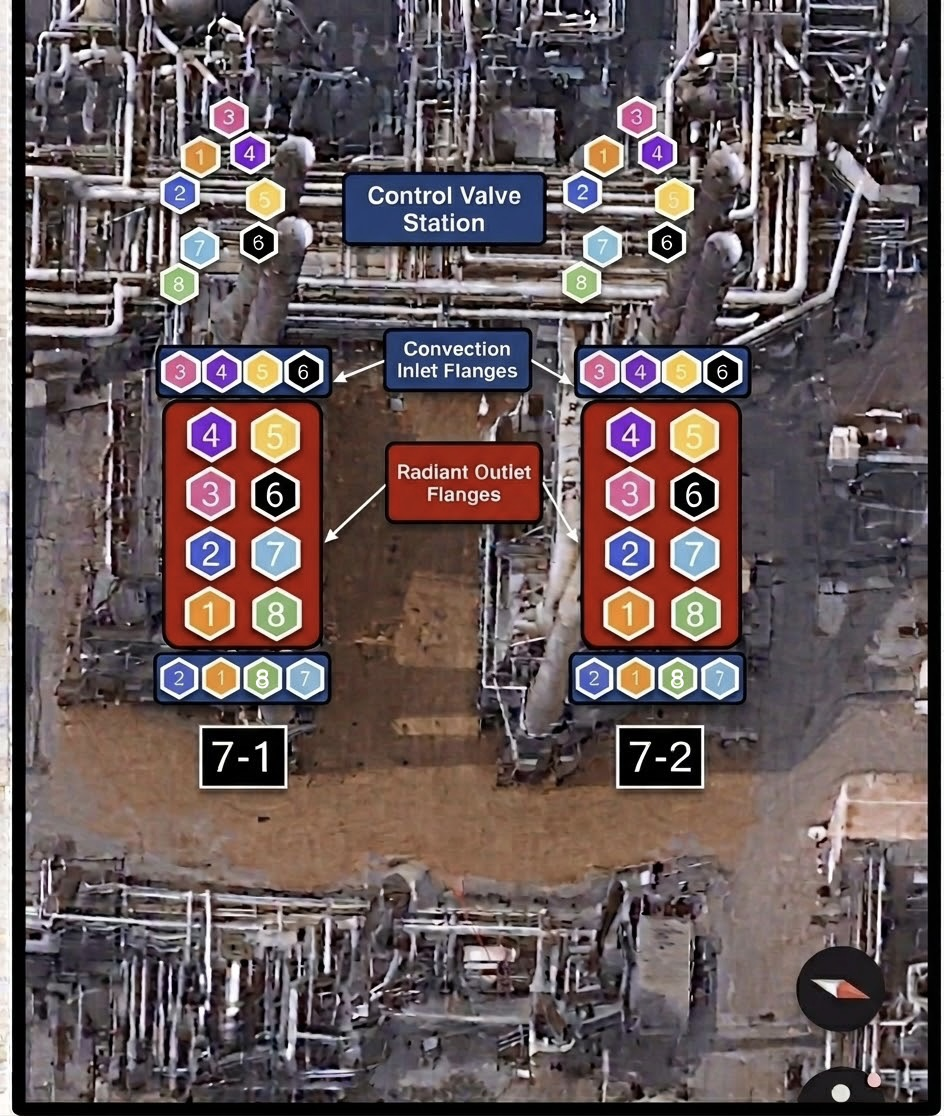
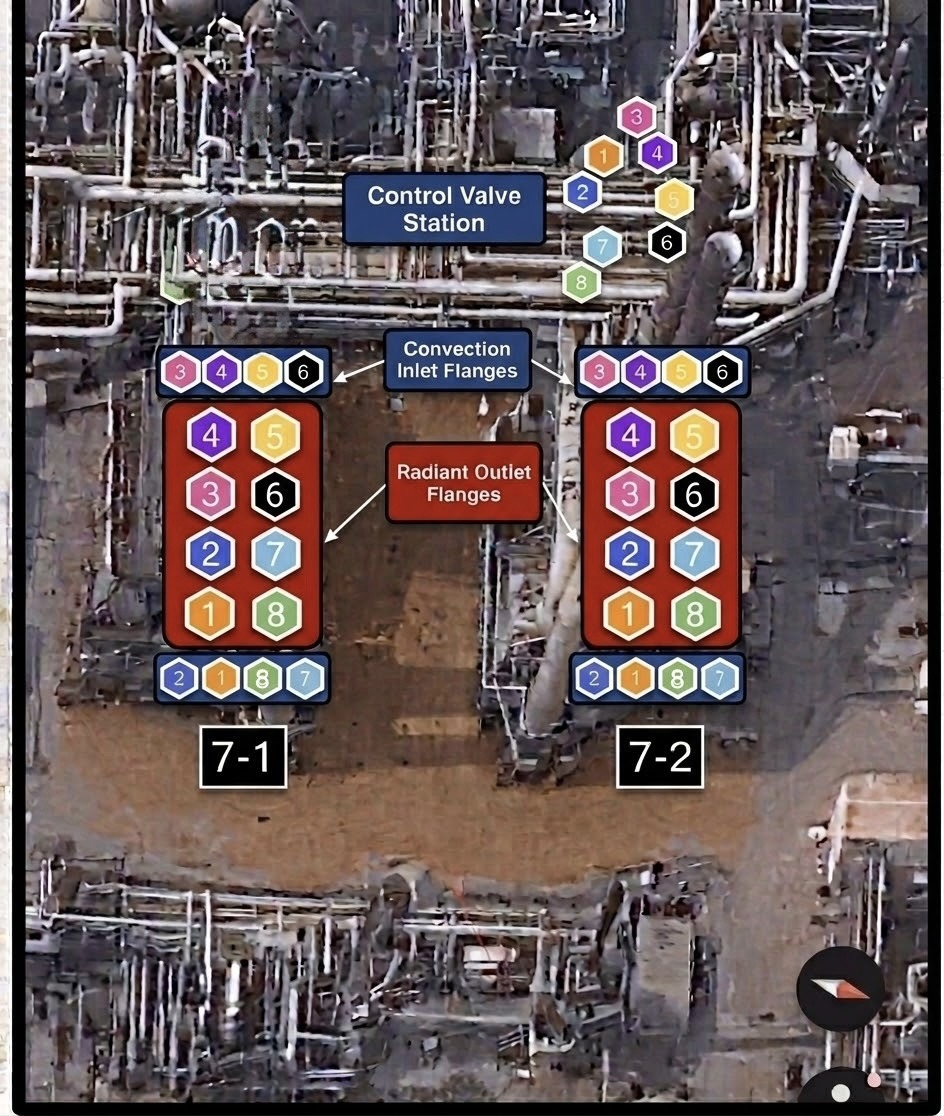
[Lane 4] CAD26001 ingest — loop location reversed, actuals landed, job report built
Loop location (Lane 4, Jesse 2026-09-02). The temporary 180s went in at the
CONVECTION INLET flanges, one per pass, not the radiant outlets — so every
launcher and receiver landed at the radiant outlets. The vault had it inverted
from 2026-08-21 in five files, all carrying Jesse's name; corrected in each,
with the stale attributions replaced rather than re-dated. This is the
arrangement the rest of the estate already uses (Baytown F-201, F-501).

Job sheet: DSP #CAN24120 located in the OneDrive job folder, so the "no work-up
exists" callout was false — it was scoped to the vault. Records the quoted plan
(96 hrs / 8 shifts, UNLOOPED, crew of 15) against a job executed looped with 10.
Its own HTML twin carried the same errors and is corrected alongside.

Heater card: CAD26001 Task Durations row as a 2-rig sum with hours-blended so
the rollup classifies it 2-rig-sum and suppresses a rate computed from summed
hours; new ## Coilset Durations section (DQ-017 Phase 2) carrying the valid
per-rig measurements — Mode 2, Circuit ft 4,474, ft/hr per pig 124 (TM5) and
144 (TM6) against CAD25004's single-circuit 124, which says running two looped
circuits per rig cost nothing. Coils column left "?": the day and night ticket
books swap which Trimax held which circuits, and Jesse ruled not to record a
contested attribution. Field Notes and Pig Specifications added.

The 114.5 here is a 2-rig SUM and must not be read against the 84-hr build-up,
[…]

Changed region(s): [[0.1536, 0.0914, 0.3686, 0.3351]]

diff --git a/02-facilities/Syncrude/Fort-McMurray-AB/CAD26001-job-sheet.html b/02-facilities/Syncrude/Fort-McMurray-AB/CAD26001-job-sheet.html
@@ -128,7 +128,7 @@
   <h2>Project Details</h2>
   <table class="kv">
     <tr><td>Scope</td><td class="b">7-1 F-1 Bitumen Column Feed Heater &mdash; w/ Smart Pigging</td><td>Job #</td><td class="b">CAD26001</td></tr>
-    <tr><td>Facility</td><td>Syncrude Mildred Lake &mdash; Fort McMurray, AB</td><td>Quote</td><td class="mut">No DSP work-up on file</td></tr>
+    <tr><td>Facility</td><td>Syncrude Mildred Lake &mdash; Fort McMurray, AB</td><td>Quote</td><td>DSP #CAN24120</td></tr>
     <tr><td>Mode</td><td>Double mode &times; 2 rigs &mdash; 4 looped circuits, all pigged simultaneously</td><td>PO #</td><td>1300060001</td></tr>
     <tr><td>Project Type</td><td>Planned outage &mdash; August 2026 (third campaign)</td><td>PM</td><td>Dacorey Slater</td></tr>
     <tr><td>Lodging</td><td>Camp</td><td>Training</td><td>CSO / Syncrude Site Specific</td></tr>
@@ -163,7 +163,7 @@
     <tr><td class="rowlabel">Night</td><td>Supervisor</td><td class="b">Sam Mixon</td></tr>
     <tr><td class="rowlabel">Night</td><td>Operator</td><td>Jesse Utsey &middot; Danilo Ramirez &middot; Rodney Lynch &middot; JC</td></tr>
   </table>
-  <div class="note">No DSP work-up is on file for this job, so <span class="b">no quoted resource plan or billing basis is carried here</span>. Roster is the mobilized crew of 10 &mdash; 5 dayshift / 5 nightshift. PM runs dayshift.</div>
+  <div class="note">DSP #CAN24120 quoted a crew of 15 (1 PM &middot; 1 day supervisor &middot; 6 day operators &middot; 1 night supervisor &middot; 6 night operators). <span class="b">Roster below is the mobilized crew of 10</span> &mdash; 5 dayshift / 5 nightshift. PM runs dayshift.</div>
 </section>
 
 <section>
@@ -208,9 +208,9 @@
       <div class="spec"><div class="sl">Launchers</div><div class="sv">8 &times; 6" &middot; at grade</div></div>
       <div class="spec"><div class="sl">Circuits</div><div class="sv hi">4 looped &middot; 4,474' ea.</div></div>
     </div>
-    <div class="cline"><span class="lb">Circuits</span><span class="vl"><span class="b">8 coils looped into 4 circuits with temporary 180s at the radiant outlet flanges &mdash; 1&amp;8 &middot; 2&amp;7 &middot; 3&amp;6 &middot; 4&amp;5.</span> Follows the physical outlet-spool pairing. Launcher and receiver both land at the control-valve-station end.</span></div>
+    <div class="cline"><span class="lb">Circuits</span><span class="vl"><span class="b">8 coils looped into 4 circuits with a temporary 180 loop connection at the convection inlet flanges of each pass &mdash; 1&amp;8 &middot; 2&amp;7 &middot; 3&amp;6 &middot; 4&amp;5.</span> Launcher and receiver both land at the radiant outlet end.</span></div>
     <div class="cline"><span class="lb">Temp 90s</span><span class="vl">Plant installs temporary 90&deg; elbows at both ends &mdash; CV station and radiant outlets. Those are what bring both connection points to grade; plant-side prerequisite.</span></div>
-    <div class="cline"><span class="lb">Location</span><span class="vl">Inlets at the control valve station. Outlets at the radiant outlet flanges. All 8 launchers and 8 receivers at grade &mdash; nothing on this heater is rigged at elevation.</span></div>
+    <div class="cline"><span class="lb">Location</span><span class="vl">Inlets at the control valve station. Outlets at the radiant outlet flanges. Under the looped election the 4 temporary 180s land at the convection inlets and all 16 pigging spools land at the radiant outlet end. All 8 launchers and 8 receivers at grade &mdash; nothing on this heater is rigged at elevation.</span></div>
     <div class="cline"><span class="lb">Water</span><span class="vl">Hydrant. Soda-ash solution mixed in tank &mdash; Syncrude site practice.</span></div>
     <div class="cline"><span class="lb">Coil</span><span class="vl">Heater total 376 tubes / 17,893 ft. Single 6.065" bore throughout &mdash; no telescoping, no size sequencing.</span></div>
   </div>
@@ -247,7 +247,7 @@
     <figure>
       <img src="CAD26001-fig1-connections.jpg" alt="Annotated aerial showing connection points on 7-1 and 7-2">
       <figcaption><span class="fl">Fig 1 &mdash; Connection Points</span>
-        Both the launcher and the receiver of each circuit are at the control valve station convection inlet flanges; the temporary 180s are at the radiant outlet flanges. Because the coils are looped there, <span class="b">no launcher or receiver lands at the radiant outlet end at all</span> &mdash; the 180s take their place. Numbers are coils 1&ndash;8.
+        The temporary 180s are at the control valve station convection inlet flanges, one per pass; both the launcher and the receiver of each circuit are at the radiant outlet flanges. Because the coils are looped at the inlets, <span class="b">no launcher or receiver lands at the convection inlet end at all</span> &mdash; the 180s take their place. Numbers are coils 1&ndash;8.
         <span class="b">7-2 F-1 is a mirror image</span> &mdash; plenums, floor access doors, stairways and outlet-tube movement all opposite hand. We work 7-1.
       </figcaption>
     </figure>

diff --git a/02-facilities/Syncrude/Fort-McMurray-AB/7-1-F-1.md b/02-facilities/Syncrude/Fort-McMurray-AB/7-1-F-1.md
@@ -9,10 +9,10 @@ heater-type: other
 service: Bitumen Column Feed Heater
 configuration: 8 coils / 8 passes, one coil per pass, tagged CO-1 through CO-8; outlet spools pair 1&8, 2&7, 3&6, 4&5; passes distributed across radiant Cells A-E
 status: reviewed
-last-updated: 2026-08-20
+last-updated: 2026-09-02
 tags: [heater-card, Syncrude]
 source: OEM/vendor drawings (Quest isometric 7-1F-1; Foster Wheeler GA plan + longitudinal sections; Syncrude/CoSyn coil revamp BOM 7 1 D-F-015 Rev 1) + CAD25004 ticket breakdown + CAD24002 (April 2024) job report
-verified: 2026-08-20
+verified: 2026-09-02
 ---
 
 # 7-1 F-1 Column Feed Heater — Syncrude Fort McMurray, AB
@@ -123,7 +123,7 @@ not be read as coil length.
 | Launcher flange | 6" 300# — **8 launchers**, installed on **temporary 90s at the control valve station**. Connects to 6" 300# convection inlet piping. (Launcher flange size is always constant.) |
 | Receiver flange | 6" 300# — **8 receivers**, installed on **temporary 90s at the radiant outlet flanges**. |
 | Temporary 90s | The plant installs temp 90° elbows at both ends — CV station and radiant outlets — and we land on those. They are what brings both connection points to grade. Their installation is a plant-side prerequisite and has been a standing source of standby on this heater (see Field Notes: CAD25004 lost ~192 hrs waiting on blinds, spools and launchers). |
-| Count | **16 total, 8 per end — for the UNLOOPED arrangement.** Corrected 2026-08-20 — the card previously read "16 launchers at the control-valve-station convection inlets," which put all 16 on one end. The CAD24002 report's "16 launchers" is the both-ends total. **Looping changes where they land, not how many there are** (added 2026-09-02): on CAD26001's 8→4 election the loop 180s occupy the radiant outlet flanges, so all 16 spools land at the CV station end and nothing but a 180 sits at the outlets. The rows above describe the unlooped case; read them against the job's own looping election. |
+| Count | **16 total, 8 per end — for the UNLOOPED arrangement.** Corrected 2026-08-20 — the card previously read "16 launchers at the control-valve-station convection inlets," which put all 16 on one end. The CAD24002 report's "16 launchers" is the both-ends total. **Looping changes where they land, not how many there are** (added 2026-09-02): on CAD26001's 8→4 election the loop 180s occupy the convection inlet flanges, one per pass, so all 16 spools land at the radiant outlet end and nothing but a 180 sits at the inlets. The rows above describe the unlooped case; read them against the job's own looping election. **Corrected 2026-09-02** — this row and the Job Options row below both read the arrangement inverted from 2026-08-21 until Jesse corrected it against what was actually built. |
 | Water supply source | Hydrant. Soda-ash solution mixed in tank to combat resid — Syncrude site/customer practice, NOT USADebusk stainless passivation (metallurgy is A335 P5, low-alloy not stainless; per usadebusk-core customer-instruction-governed rule, 2026-07-23). |
 | Max pig OD (in) | Governing ID 6.065" → rule cap 6.315" (6.065 + 0.250). Largest actually run: 6.5" TC (oversized final) plus 8.5" (CAD24002) / 10.5" (CAD25004) dewater swabs. |
 
@@ -136,7 +136,7 @@ not be read as coil length.
 | Option | Status (Optional / Elected / Declined / TBD) | Vendor / Notes |
 |---|---|---|
 | Filtration | **Not used — settled** | **USADebusk does not use filtration on this heater or on its sister `7-2 F-1`** (Jesse, 2026-08-21). This is a recurring job and the question is closed — not a per-job election, not an open item, and not something to raise with Syncrude. CAD24002 records the how: no filtration, drained to the oily-water sewer 5' from the rig (see Field Notes). CAD25004 was never clearly recorded and does not need to be. |
-| **Pass looping** | Experimental (CAD25004) · **ELECTED (CAD26001)** | **Looping is a per-job election on this heater, not a design feature** (Jesse, 2026-08-20). **CAD25004 looped passes 1 & 8 and only those two, as a deliberate test** — whether a looped pair is too much footage for one circuit and whether it could still be done in a similar time. It could: 36 hrs for the looped 4,474 ft circuit against 35 hrs for the unlooped triple set (Jesse, 2026-08-21). **That test result is why CAD26001 loops all 8 coils into 4 circuits, at the RADIANT OUTLET FLANGES** (Jesse, 2026-08-21). **Which coils pair with which is not yet decided** — and it does not change the duration: all 8 coils are uniform at 2,237 ft / 47 tubes / single 6.065" bore, so any pairing yields the same ~4,474 ft circuit. Pairing affects loop-spool routing and hose layout at the outlet end, not hours. This corrects the card's original "passes 1 & 8 looped together," which was recorded as if it were heater configuration; it was a job-time choice. **Rig consequence:** looping at the radiant outlets puts both the launcher and the receiver of each circuit at the CV-station convection-inlet end, with loop spools replacing receivers at the radiant outlets — so pumper circuit lines run to one location instead of two. **CAD26001 mode (Jesse, 2026-08-21):** both Trimax run **double mode**, and **all 4 looped circuits are pigged simultaneously** — one pass set, `ceil(4 ÷ 4) − 1 = 0` rig-overs. |
+| **Pass looping** | Experimental (CAD25004) · **ELECTED (CAD26001)** | **Looping is a per-job election on this heater, not a design feature** (Jesse, 2026-08-20). **CAD25004 looped passes 1 & 8 and only those two, as a deliberate test** — whether a looped pair is too much footage for one circuit and whether it could still be done in a similar time. It could: 36 hrs for the looped 4,474 ft circuit against 35 hrs for the unlooped triple set (Jesse, 2026-08-21). **That test result is why CAD26001 loops all 8 coils into 4 circuits, at the CONVECTION INLET FLANGES** (Jesse, 2026-08-21 for the election; **location corrected 2026-09-02** — recorded as the radiant outlet flanges from 2026-08-21 until Jesse corrected it against the as-built. The 180s went in at the convection inlets, one per pass, putting every launcher and receiver at the radiant outlets). **Pairing as built was 1&8 · 2&7 · 3&6 · 4&5** — and it does not change the duration: all 8 coils are uniform at 2,237 ft / 47 tubes / single 6.065" bore, so any pairing yields the same ~4,474 ft circuit. Pairing affects loop-spool routing and hose layout at the inlet end, not hours. This corrects the card's original "passes 1 & 8 looped together," which was recorded as if it were heater configuration; it was a job-time choice. **Rig consequence:** looping at the convection inlets puts both the launcher and the receiver of each circuit at the radiant outlet end, with loop spools replacing launchers at the CV station — so pumper circuit lines run to one location instead of two. **CAD26001 mode (Jesse, 2026-08-21):** both Trimax run **double mode**, and **all 4 looped circuits are pigged simultaneously** — one pass set, `ceil(4 ÷ 4) − 1 = 0` rig-overs. |
 | Smart pigging / inspection | Elected (both jobs) | Quest — Smart Pig all 8 coils on CAD24002 and CAD25004. Job-specific election, not a heater fact. |
 
 ---
@@ -153,8 +153,25 @@ not be read as coil length.
 | 6.25 in | TC | 21 | (not recorded) | (not recorded) | CAD25004 pigs-utilized table |
 | 6.5 in | TC | 12 | (not recorded) | (not recorded) | CAD25004 pigs-utilized table |
 | 10.5 in | Swab | 3 | (not recorded) | (not recorded) | CAD25004 — dewater swabs |
+| 6 in | Gauge Foam | 8 | (not recorded) | (not recorded) | CAD26001 ticket breakdown |
+| 6 in | Pin | 5 | (not recorded) | (not recorded) | CAD26001 ticket breakdown |
+| 6.125 in | HR | 9 | (not recorded) | (not recorded) | CAD26001 ticket breakdown — written `6-1/8" HR` |
+| 6.25 in | Pin | 30 | (not recorded) | (not recorded) | CAD26001 ticket breakdown — see correction note |
+| 8.25 in | Swab | 4 | (not recorded) | (not recorded) | CAD26001 — dewater swabs |
+| 8.5 in | Swab | 8 | (not recorded) | (not recorded) | CAD26001 — dewater swabs |
 
 Source table carried both a "6.0 in" and a "6 in" row; preserved as listed rather than merged.
+
+**CAD26001 (64 pigs total), with one correction applied.** The ticket breakdown books **nine of the
+6.25" pigs as 6.5"**; Jesse corrected this 2026-09-02 — they were 6.25", and **6.25" was the final size
+on this job.** The rows above carry the corrected reading (6.25" ×30, no 6.5" row); the total is 64
+either way. **The card and Kelly's workbook are knowingly out of step until she amends it** — the
+workbook is hers and is not edited from here.
+
+Two firsts for this heater: **Hell Razors were run for the first time** (CAD24002 and CAD25004 were
+TC / foam / swab only), and **dewatering used 8.25" and 8.5" swabs rather than the 10.5"** that CAD25004
+established and the job sheet carried forward, reverting to CAD24002's 8.5" method. See Field Notes for
+why — the available air volume, not a change of preference.
 
 ---
 
@@ -164,6 +181,7 @@ Source table carried both a "6.0 in" and a "6 in" row; preserved as listed rathe
 |---|---|---|---|
 | CAD24002 | (not recorded) | 2024-04-05 (April TA) | Full field data ingested (job report, 2026-07-23). 2 Trimax (3 & 6), contact Sean Joyce. 8 coils, no filtration (drained to oily-water sewer), Quest smart pig all 8. See Task Durations + Field Notes. |
 | CAD25004 | (not recorded) | 2025-09-07 → 09-13 | Full field data ingested (ticket breakdown, 2026-07-23). 2 Trimax (5 & 6), mob 9/7, plant-delay standby 9/7–9/10, pigged 9/11–9/13. See Task Durations + Field Notes below. |
+| CAD26001 | DSP #CAN24120 | 2026-08-25 → 08-30 | Full field data ingested (ticket breakdown + service tickets, 2026-09-02). 2 Trimax (5 & 6), PO 1300060001. First job on this heater run fully looped — 8 coils into 4 circuits, both rigs double mode, 0 rig-overs. See Task Durations, Coilset Durations + Field Notes. |
 
 ---
 
@@ -172,6 +190,7 @@ Source table carried both a "6.0 in" and a "6 in" row; preserved as listed rathe
 |---|---|---|---|---|---|---|---|---|---|---|---|
 | 2024-04-05 | CAD24002 | 2 | 9.5 | 68.5 | 9 | 1.5 | 7.5 | 36 | 96 | routine, hours-blended | |
 | 2025-09-07 | CAD25004 | 2 | 14 | 119 | 18 | – | 13 | 192 | 164 | routine, hours-blended | |
+| 2026-08-26 | CAD26001 | 2 | 18 | 67 | 7 | – | 22.5 | 61.5 | 114.5 | routine, hours-blended | |
 
 **CAD24002 row** (populated 2026-07-23 from the CAD24002 April-2024 job report PDF, Jesse-supplied): 2-Trimax
 job (Trimax 3 + Trimax 6). Per-unit split (report's TOTAL DURATION tables): Trimax 6 (passes 1/2/3/7/8) =
@@ -193,6 +212,30 @@ coils + 108 on TM6's) was almost entirely **plant-caused delay 9/7–9/10** (wai
 heater and install blinds, spools, launchers). Condition routine per Jesse (2026-07-22): planned job,
 moderate/light fouling — Kicksolve was used against pitch/resid but Jesse classifies the coil condition as
 routine.
+
+**CAD26001 row** (populated 2026-09-02 from `CAD26001 Syncrude Fort Mac 7-1F-1 Bitumen 2 TriMax Ticket
+Breakdown.xlsx` via `extract_ticket_breakdown.py`, plus the 15-page service-ticket stack): 2-Trimax job
+(Trimax 5 + Trimax 6), 8 coils looped into 4 circuits, both rigs in double mode, 0 rig-overs. Job ran
+8/26–8/30/2026; demob 8/30. Per-rig split: **TM5** rig-in 9 / pig 36 / smart 3.5 / rig-out 9.5 = 58;
+**TM6** rig-in 9 / pig 31 / smart 3.5 / rig-out 13 = 56.5. These sum exactly to the parent row, so the
+task split is a measurement rather than an allocation — `hours-blended` is carried for the *other*
+reason the token exists, that these are **2-rig sums and not elapsed**, which is what makes
+`estimating_rollup.py` classify the row `2-rig-sum` and suppress its ft/hr. The per-pig rates that
+*are* valid live in `## Coilset Durations` below.
+
+**Do not compare this row's 114.5 to the 84-hr build-up.** The 84 is project-**elapsed**; 114.5 is a
+2-rig **sum**, and the comparison is the exact category error this token exists to prevent. On matched
+elapsed terms the job came in **under** plan: rig-in 9 vs 8, pig **36.5 vs 47**, smart 7 vs 18, rig-out
+13 vs 8 — 65.5 elapsed against 81 raw. Pigging beat plan by 10.5 hrs; the only overrun is rig-out.
+*Elapsed figures are computed, not measured:* where both rigs logged hours in one shift, elapsed is
+taken as the larger, since the capture sheet's per-circuit clock table was never filled in.
+
+Stand-By 61.5, all customer-caused, in two groups: **47.5 hrs on 8/27** awaiting heater preparation
+(blinds, spools, convection jumpers, launcher hanging) and **14 hrs on 8/29–8/30** awaiting a 1600 CFM
+compressor for dewatering — Syncrude did not supply one until the end of the job, the on-site unit was
+too small for the looped circuits, and passes air-locked (Jesse, 2026-09-02). The tickets word this as
+"awaiting for compressor to be fixed or replaced", which reads like our equipment failing; it was not.
+Condition `routine` — planned outage, nominal fouling.
 
 **ft/hr note (both rows):** heater footage is **17,893 ft** as of 2026-08-20, not the 2,311 ft used before
 that date. Pig hours on both rows remain 2-rig sums across asymmetric coil-sets, so the rollup's
@@ -250,6 +293,41 @@ What went wrong on that coil set is unrecovered and may not be recoverable from 
 
 ---
 
+## Coilset Durations
+
+Added 2026-09-02 (DQ-017 Phase 2). One row per coilset as actually run. `## Task Durations` stays
+authoritative at heater level and is not changed by this section; these rows sum to the CAD26001 parent
+row exactly (58 + 56.5 = 114.5).
+
+| Job # | Coils | Rig | Mode | Circuit ft | Rig-In | Pig | Smart Pig | Rig-Over | Rig-Out | Total | Coil condition | Flag |
+|---|---|---|---|---|---|---|---|---|---|---|---|---|
+| CAD26001 | ? | TM5 | 2 | 4,474 | 9 | 36 | 3.5 | – | 9.5 | 58 | light | clean |
+| CAD26001 | ? | TM6 | 2 | 4,474 | 9 | 31 | 3.5 | – | 13 | 56.5 | light | clean |
+
+**Coils is `?` deliberately, not unrecorded-by-accident.** The day and night ticket books disagree on
+which Trimax held which circuits: day tickets put TM5 on 3/4 + 5/6 and TM6 on 1/2 + 7/8, the night books
+put pumper 5 on 7/8 + 1/2 and pumper 6 on 3/4 + 5/6 — exactly swapped. Jesse ruled 2026-09-02 not to
+attribute circuits rather than record a contested pairing. **It costs nothing here:** all 8 coils are
+uniform at 2,237 ft, so every looped circuit is 4,474 ft whatever the pairing, and the rate does not
+depend on which pair a rig held.
+
+**Mode 2** = two looped circuits pigged simultaneously per rig, each looped path counting as 1.
+**Circuit ft 4,474** = the footage one pig travels through a looped pair, not the set total.
+
+**ft/hr per pig = Circuit ft ÷ Pig — TM5 124, TM6 144.** *Computed* from workbook hours and
+drawing-derived footage; not a measured travel rate. Against **CAD25004's 124 ft/hr**, earned by Trimax 6
+on a single looped circuit with the rig's undivided attention, this is the answer to the one question the
+capture sheet existed to ask: **running two looped circuits per rig instead of one cost nothing.** That
+corroborates striking the 25–40% parallel allowance on 2026-08-23. It rests on one assumption the record
+cannot close — that both of a rig's circuits ran together for its whole pigging window — because the
+capture sheet's per-circuit clock table was never filled in.
+
+Coil condition `light` on both rows: all eight coils came out nominal, thickest deposits ~1/8" in the
+radiant (Jesse, 2026-09-02). Flag `clean` — the two rigs' pig hours agree within 5 hrs on identical
+footage, so neither is an outlier.
+
+---
+
 ## SOPs
 
 ---
@@ -290,6 +368,43 @@ launchers, crew of 13. PM Marshall Douglas.
 - **2026-07-06:** Jesse confirmed CAD24002 (2024) and CAD25004 (2025) are two separate real projects on this heater, not a mislabeling. This Field Notes section documents CAD25004 only; CAD24002 field data has not been located/ingested yet.
 - **2026-07-23 — full ticket breakdown ingested** (Jesse-supplied). Job ran 9/7–9/13/2025. Mob from Deer Park, TX (Trimax 5) and Edmonton (Trimax 6) on 9/7; staging + soda-ash mixing + rig-in 9/7–9/8. **9/8–9/10 was almost entirely standby** waiting on the plant to drain the heater and install blinds, spools, and launchers (receipts 10184–10194, ~192 hrs total). Pigging 9/11–9/13: Trimax 5 on coils 2/3/4, Trimax 6 on coils 5/6/7 then coils 1 & 8. Progression foams 5.5" → 6.0" → 6.25" → 6.5"; Kicksolve added against pitch/resid on multiple passes; Quest smart pig on all coils; dewatered with 10.5" swabs. Per-unit/per-coilset hours are in the Task Durations row note. The breakdown's summary header carried a stale sequence number, **25002**, in place of 25004 — confirmed job is **CAD25004** (consistent with the stale-number warning above).
 
+### CAD26001 — August 2026
+
+Source: `CAD26001 7-1F-Bitumen Service Tickets.pdf` (tickets 11301–11309, 10401–10406), the CAD26001
+ticket breakdown, and Jesse's field account 2026-09-02. Mob 8/25 (Houston to Edmonton, then camp),
+rig-in 8/26, pigging 8/27 night through 8/29, smart pig 8/29, demob 8/30. Crew of 10, PM Dacorey Slater,
+night supervisors Sam Mixon and Jesse Utsey. Customer contact Carlos Martinez on the tickets; Jeremy
+McWhirter signed as customer representative.
+
+- **Config:** 8 coils looped into 4 circuits, temporary 180s at the **convection inlet flanges**, one per
+  pass, pairing 1&8 · 2&7 · 3&6 · 4&5. Both Trimax in double mode, all 4 circuits at once, **0
+  rig-overs** — the first time this heater has been cleaned in a single set. No filtration. Water from
+  hydrant, soda-ash solution mixed in tank.
+- **Coke analysis:** all 8 coils **nominal, consistent with historical run times.** Thickest deposits
+  ~**1/8"** in the **radiant tubes**, fractured off the tube wall once the first oversized pig (**6.25"**)
+  was run through each coil. Post-decoke inspection found a few spots of light fouling confined to the
+  **last three radiant tubes at the outlet — 29, 30, 31** — in select coils.
+- **Tubes 29–31 are this heater's recurring signature, not a CAD26001 finding.** CAD24002 recorded the
+  heaviest and hardest deposits in exactly those three tubes, with the smart pig finding minimal fouling
+  there and calling it typical of previous decokes. Two decokes apart, same three tubes.
+- **Quest Integrity holds the data identifying the exact passes and locations, and that is where it
+  stays** (Jesse, 2026-09-02). Quest does not share reports and should not be expected to — they are a
+  competitor with their own decoking division, and verbal communication on the job is the ceiling for
+  what reaches us. The account above is the record, not a placeholder for a document we will obtain.
+- **Cleaning progression:** 6" gauge foam coast to coast, 6" pin pigs, 6-1/8" Hell Razors working the
+  lower radiant, then 6.25" pin pigs to finish and polish. Effluent ran 30–40 sec of black return with
+  heavy tracking on the pig crowns early, easing to ~45 sec of dirty return, then minimal by end of
+  shift. Quest smart-pigged all 8 coils on 8/29 and the passes were signed off as completed.
+- **Delays:** 8/27 lost to heater preparation (blinds, spools, convection jumpers, launcher hanging);
+  8/29–8/30 lost awaiting a 1600 CFM compressor. **The dewatering shortfall is the one carry-forward
+  worth planning against:** Syncrude did not supply a 1600 CFM unit until the end of the job, the on-site
+  compressor could not clear the looped circuits, and passes air-locked. Dewatering ran on 8.25" and 8.5"
+  swabs, **not the 10.5"** the job sheet's carry-forward specified. USA26038 hit the same wall on a
+  different heater and concluded looped-pass dewatering fails on footage regardless of compressor; two
+  jobs is a pattern to watch, not yet a rule.
+- **Flow tests:** three circuits measured, transcribed to [[CAD26001-flow-tests]]. Δ PSI at matched GPM
+  is the measurement; the passes 3+4 sheet was scrapped and its figures are placeholders.
+
 ---
 
 ## Open Flags
@@ -317,3 +432,4 @@ launchers, crew of 13. PM Marshall Douglas.
 | 2026-07-06 | Jesse clarified CAD24002 (2024) and CAD25004 (2025) are two separate real jobs on this heater, not a mislabeling; added Job History table with both, flagged CAD24002 as not yet ingested. | Claude |
 | 2026-07-06 | Migrated to canonical card layout: canonical Pig Specifications columns, Task Durations/SOPs sections added, confidence-tier frontmatter removed per governance facility-data note. | Claude |
 | 2026-08-20 | **Geometry rebuilt from OEM/vendor drawings supplied by Jesse this session.** Sources, all read from zoomed `pdftoppm` crops rather than full-page renders: Quest Integrity isometric `7-1F-1.tif` Rev 1 title block and per-pass tube numbering (`syncrude drawings.pdf` p1); Foster Wheeler GA plan section and longitudinal section (`syncrude drawings.pdf` p2/p3, `F-1 DRAWINGS.pdf` p1/p3); Syncrude/CoSyn coil revamp BOM `7 1 D-F-015` Rev 1 (`F-1 DRAWINGS.pdf` p2). Corrected: per-pass vs heater-total footage (2,311 → 17,893 ft, the 2026-07-23 flag had been closed the wrong way), tube counts per circuit (2/~4 → 16/31), metallurgy (added Incoloy 825), configuration (coils CO-1…CO-8, Cells A–E, outlet spool pairs), sister heater 7-2F-1 recorded as real and identical. Dissolved the per-coil 3-vs-4 radiant split (an artifact of the same error). Struck the ~6 ft/hr figure and recorded per-coilset rates on corrected footage. Quarantined the CAD25004 48-hr coil set as an outlier per Jesse's same-heater-coils-cluster rule. **No Task Durations hours were altered** — only the footage they are divided by. A third file in the same folder, `Syncrude WO 20667490 2024TA 37-1F-1 Furnace Binder -IFR.pdf`, was examined and rejected as a different unit (Plant 37-1 VDU vacuum furnace, telescopic 6/8/10/12"); Jesse confirmed and removed it. Nothing from it is recorded here. | Claude |
+| 2026-09-02 | **CAD26001 ingested** — Task Durations row (2-rig sum, `hours-blended`, Mode blank so the rollup suppresses a rate computed from summed hours), new **`## Coilset Durations`** section (DQ-017 Phase 2, two per-rig rows, Mode 2, Circuit ft 4,474, ft/hr per pig 124 / 144), Field Notes subsection, Job History row, and 6 CAD26001 rows on Pig Specifications. **Loop location corrected:** the temporary 180s went in at the **convection inlet flanges**, not the radiant outlets — recorded inverted here and in four other files from 2026-08-21 until Jesse corrected it against the as-built (2026-09-02). Coils column left `?` on both Coilset rows: day and night ticket books swap which Trimax held which circuits, and Jesse ruled not to record a contested attribution; costs nothing, as all circuits are 4,474 ft. Pig rows carry the corrected 6.25" ×30 rather than the workbook's 6.5" ×9 split, which Kelly will amend at source. | Claude |

diff --git a/02-facilities/Syncrude/Fort-McMurray-AB/CAD26001-job-sheet.md b/02-facilities/Syncrude/Fort-McMurray-AB/CAD26001-job-sheet.md
@@ -3,9 +3,9 @@ type: job-sheet
 job-number: CAD26001
 client: Syncrude
 facility: Syncrude-Fort-McMurray-AB
-source: PO 1300060001 — no DSP work-up exists in the vault for this job
-verified: 2026-08-25
-last-updated: 2026-08-25
+source: "DSP #CAN24120 (quoted 2024-09-25) + PO 1300060001"
+verified: 2026-09-02
+last-updated: 2026-09-02
 tags: [job-sheet, Syncrude, CAD26001]
 ---
 
@@ -20,13 +20,22 @@ tags: [job-sheet, Syncrude, CAD26001]
 > `CAD26001-job-sheet.pdf` (rendered from `CAD26001-job-sheet.html`). A job sheet is static —
 > created at bid-win from the quoted work-up. Actuals and timeline live on the job report, never here.
 
-> [!note] No work-up on file
-> **No DSP quotation or work-up for CAD26001 exists in this vault.** PO 1300060001 is the only
-> commercial artifact recorded. This sheet therefore carries **no quoted resource plan, no Qty column
-> and no man-hour totals** — the Crew & Labor block is a roster, not a billing basis. The duration
-> figures below come from the reference build-up
-> [[2026-08-21-cad26001-looping-duration-both-ways]], not from a quotation. `source:` records this
-> honestly rather than naming a DSP number that does not exist.
+> [!note] The work-up: DSP #CAN24120
+> **Located 2026-09-02 in the OneDrive job folder** — `DSP #CAN24120 7-1F-1 Bitumen Column Feed Heater
+> 2026.pdf`. Quoted 2024-09-25 by Jason Harman, Time & Material, $177,068 CAD, valid to 2025-09-25;
+> the job executed August 2026 on PO 1300060001, which governs. **This corrects the note that stood
+> here until 2026-09-02, which asserted no work-up existed** — it was scoped to the vault, and the
+> quotation was in OneDrive all along.
+>
+> **Its execution plan is UNLOOPED and does not describe how this job ran:** rig-in 12 · pig 64 ·
+> smart pig 8 · rig-over 6 · stand-by 0 · rig-out 6 = **96 hrs / 8 shifts**, passes 1-6 then a
+> rig-over to 7 & 8, with a quoted crew of 15. The job was executed looped, 4 circuits at once, 0
+> rig-overs, with a mobilized crew of 10. The 84 hrs / 7 shifts below is the **looped** reference
+> build-up [[2026-08-21-cad26001-looping-duration-both-ways]] and is the figure that matches the
+> method actually used. Both are records, not things to re-derive.
+>
+> `CAN24120` is a file-naming slip by whoever wrote the quotation, **not a job-number series** — do
+> not build a prefix convention on it (Jesse, 2026-09-02).
 
 ---
 
@@ -35,7 +44,7 @@ tags: [job-sheet, Syncrude, CAD26001]
 | Field | Value | Field | Value |
 |---|---|---|---|
 | Scope | 7-1 F-1 Bitumen Column Feed Heater — w/ Smart Pigging | Job # | CAD26001 |
-| Facility | Syncrude Mildred Lake — Fort McMurray, AB | Quote | No DSP work-up on file |
+| Facility | Syncrude Mildred Lake — Fort McMurray, AB | Quote | DSP #CAN24120 |
 | Mode | Double mode × 2 rigs — 4 looped circuits, all pigged simultaneously | PO # | 1300060001 |
 | Project Type | Planned outage — August 2026 (third campaign) | PM | Dacorey Slater |
 | Lodging | Camp | Training | CSO / Syncrude Site Specific |
@@ -65,8 +74,9 @@ tags: [job-sheet, Syncrude, CAD26001]
 | Night | Supervisor | Sam Mixon |
 | Night | Operator | Jesse Utsey · Danilo Ramirez · Rodney Lynch · JC |
 
-No DSP work-up is on file for this job, so **no quoted resource plan or billing basis is carried
-here**. Roster is the mobilized crew of 10 — 5 dayshift / 5 nightshift. PM runs dayshift.
+DSP #CAN24120 quoted a crew of 15 (1 PM · 1 day supervisor · 6 day operators · 1 night supervisor ·
+6 night operators). **Roster below is the mobilized crew of 10** — 5 dayshift / 5 nightshift, PM runs
+dayshift. The gap between quoted and mobilized belongs on the job report, not here.
 
 ---
 
@@ -92,9 +102,9 @@ striping mandatory. Site driving authorization via Marshall.
 
 > **Inlets** 6" 300# RFWN · **Outlets** 6" 300# RFWN · **Launchers** 8 × 6" · at grade · **Circuits** 4 looped · 4,474' ea.
 >
-> **Circuits** — **8 coils looped into 4 circuits with temporary 180s at the radiant outlet flanges — 1&8 · 2&7 · 3&6 · 4&5** (Jesse, 2026-08-25). Follows the physical outlet-spool pairing. Launcher and receiver both land at the control-valve-station end.
+> **Circuits** — **8 coils looped into 4 circuits with a temporary 180 loop connection at the convection inlet flanges of each pass — 1&8 · 2&7 · 3&6 · 4&5** (Jesse, 2026-09-02, correcting the as-executed record). Launcher and receiver both land at the radiant outlet end.
 > **Temp 90s** — plant installs temporary 90° elbows at both ends, CV station and radiant outlets. Those are what bring both connection points to grade; plant-side prerequisite.
-> **Location** — inlets at the control valve station, outlets at the radiant outlet flanges. Under the looped election all 16 pigging spools land at the CV station end and the radiant outlets carry the 4 temporary 180s instead. Everything at grade; nothing on this heater is rigged at elevation.
+> **Location** — inlets at the control valve station, outlets at the radiant outlet flanges. Under the looped election the 4 temporary 180s land at the convection inlets and all 16 pigging spools land at the radiant outlet end instead. Everything at grade; nothing on this heater is rigged at elevation.
 > **Water** — hydrant. Soda-ash solution mixed in tank, Syncrude site practice.
 > **Coil** — heater total 376 tubes / 17,893 ft. Single 6.065" bore throughout — no telescoping, no size sequencing.
 
@@ -119,10 +129,10 @@ Full tube geometry, config rollup and pig spec history: [[7-1-F-1]].
 
 ![Fig 1 — connection points](CAD26001-fig1-connections.jpg)
 
-**Fig 1 — Connection Points.** Both the launcher and the receiver of each circuit are at the control
-valve station convection inlet flanges; the temporary 180s are at the radiant outlet flanges. Because the
-coils are looped there, **no launcher or receiver lands at the radiant outlet end at all** — the 180s take
-their place. Numbers are coils 1–8. **7-2 F-1 is a mirror
+**Fig 1 — Connection Points.** The temporary 180s are at the control valve station convection inlet
+flanges, one per pass; both the launcher and the receiver of each circuit are at the radiant outlet
+flanges. Because the coils are looped at the inlets, **no launcher or receiver lands at the convection
+inlet end at all** — the 180s take their place. Numbers are coils 1–8. **7-2 F-1 is a mirror
 image** — plenums, floor access doors, stairways and outlet-tube movement all opposite hand. We work 7-1.
 
 ![Fig 3 — pass routing](CAD26001-fig3-pass-routing.jpg)

diff --git a/04-knowledge/estimating-actuals-rollup.md b/04-knowledge/estimating-actuals-rollup.md
@@ -33,12 +33,13 @@ Benchmarks as stated in `usadebusk-estimating`: **100 ft/hr** pigging (nominal f
 | H-29 | P66 | 2025-05-10 | USA25041 | routine, combined-heaters | 1 | ? | 5 | 117 | – | 9 | combined | 1 | 131 | 2,373 | - | - |
 | 7-1 F-1 | Syncrude | 2024-04-05 | CAD24002 | routine, hours-blended | 2 | ? | 9.5 | 68.5 | 9 | 7.5 | 2-rig-sum | 36 | 96 | 17,893 | 261 | - |
 | 7-1 F-1 | Syncrude | 2025-09-07 | CAD25004 | routine, hours-blended | 2 | ? | 14 | 119 | 18 | 13 | 2-rig-sum | 192 | 164 | 17,893 | 150 | - |
+| 7-1 F-1 | Syncrude | 2026-08-26 | CAD26001 | routine, hours-blended | 2 | ? | 18 | 67 | 7 | 22.5 | 2-rig-sum | 61.5 | 114.5 | 17,893 | 267 | - |
 | H-102A | Valero | 2026-03-26 | USA26025 | crash | 1 | 3 | 27* | 232 | 16 | –* | see card | 176 | 275 | 9,248 | 40 | 13 |
 | H-102B | Valero | 2026-03-26 | USA26025 | crash | 1 | 3 | 34.5* | 242.5 | 31 | –* | see card | 179 | 308 | 9,248 | 38 | 13 |
 
 > **`Rig method` — read this before comparing any two rig figures** (DQ-017 Q3). The Rig-In and Rig-Out columns are **mixed-method**: cells that print alike were produced five different ways, and a rule fitted across them inherits the defect. `unmarked` = no method problem is *recorded* — **not** a verified measurement; HF-0011's Rig-Out of 3 is the billed figure with a further 8 hrs customer-signed and never billed, and nothing on that row says so. `combined` = the hours are a multi-heater job total written on each card. `2-rig-sum` = summed across rigs, not elapsed (7-1 F-1 CAD25004's rig-in 14 = 6 + 6 + 2 across three coil sets). `blended` = the source did not separate this row's tasks cleanly; the card says which. `see card` = the cell carries a `*` footnote, and the reasons genuinely differ — Valero bundles rig-in + rig-over + rig-out into one "Rigging" figure, while the Flint Hills pair is one continuous rig-over where each heater's missing side is absent by design. `quarantined` = the job's own sources do not reconcile (both HF Sinclair heaters, USA25051/USA26038 — see their card row notes). **Only `unmarked` rows are candidates for deriving anything, and they are candidates, not evidence.**
 
-> **5 of 25 rows carry a rig-in/rig-out pair that is both `unmarked` and complete** (6 rows are `unmarked`, but not all record both figures). That is the whole population available for any question about how rig-out relates to rig-in — small enough that a difference between a handful of jobs will look like a difference between facilities. Count the distinct **jobs** behind these rows before reading a pattern into them.
+> **5 of 26 rows carry a rig-in/rig-out pair that is both `unmarked` and complete** (6 rows are `unmarked`, but not all record both figures). That is the whole population available for any question about how rig-out relates to rig-in — small enough that a difference between a handful of jobs will look like a difference between facilities. Count the distinct **jobs** behind these rows before reading a pattern into them.
 
 ## ft/hr per pig by job class
 
@@ -52,7 +53,7 @@ Mode-normalized per-pig rates (elapsed ÷ Mode), so jobs run in different modes 
 | first | 1 | 75 | 75 |
 | routine | 5 | 47–259 | 99 |
 
-> 3 row(s) carry an elapsed rate but no `Mode`, so they are excluded from these per-pig means — add `Mode` to those Task Durations rows to include them.
+> 4 row(s) carry an elapsed rate but no `Mode`, so they are excluded from these per-pig means — add `Mode` to those Task Durations rows to include them.
 
 ## Coverage gaps
 
@@ -83,6 +84,6 @@ Mode-normalized per-pig rates (elapsed ÷ Mode), so jobs run in different modes 
 
 ## Reading this
 
-- With **25** actual job row(s), this is a growing dataset, not a calibrated model. Treat per-job ft/hr as anecdotes until several same-service jobs accumulate.
+- With **26** actual job row(s), this is a growing dataset, not a calibrated model. Treat per-job ft/hr as anecdotes until several same-service jobs accumulate.
 - **Check the per-coilset spread before deriving a rate from any row** (Jesse, 2026-08-20 / DQ-027). Coils on one heater clean within a few hours of each other; a coil set 12–24 hrs off its siblings means a problem specific to that coil that decoke, or corrupt data. Derive off the sets that cluster, never the outlier, and say in the duration math that you excluded it. Rows here are per-job heater totals, so the spread is not visible from this table — go to the card's Field Notes / job report.
 - **Rig-In/Rig-Out actuals well off the 6/6 hr defaults are a signal only on `unmarked` rows** — check the `Rig method` column first. A `combined`, `2-rig-sum`, `blended`, `see card` or `quarantined` row is far off the default because of how the number was produced, not because the job ran long, and reading it as a duration signal is the specific error this column exists to prevent. ft/hr consistently off 100 is the other signal. Either way, raise it with Jesse rather than editing the skill from here.

diff --git a/01-context/active-jobs.md b/01-context/active-jobs.md
@@ -14,7 +14,7 @@
 
 | Job # | Facility | Heater(s) | Completed | Notes |
 |---|---|---|---|---|
-| CAD26001 | Syncrude Mildred Lake, Fort McMurray AB | [[7-1-F-1]] | 2026-08-29 | Third campaign on this heater (after CAD24002 Apr 2024, CAD25004 Sep 2025). PO 1300060001. Mob 2026-08-25, rig-in 2026-08-26; **2026-08-29 is the last dated field sheet, not a recorded demob date** — the actual demob is not in the vault. Trimax 5 + 6 with Support 5/6, both in double mode, 0 rig-overs. **8 coils looped into 4 circuits at the radiant outlet flanges** (1&8 · 2&7 · 3&6 · 4&5), so every launcher/receiver landed at the control-valve-station end and the 180s took the outlets — the arrangement is in [[CAD26001-job-sheet]] and the duration build-up in [[2026-08-21-cad26001-looping-duration-both-ways]]. Crew of 10, Jesse on nights as operator; roster in the job sheet. **Quoted 84 hrs / 7 shifts — the record of what was quoted and executed; do not re-derive a duration from it.** Flow tests transcribed to [[CAD26001-flow-tests]] (three circuits measured, passes 3+4 scrapped and pending the official sheet). All 8 coils came out nominal, thickest deposits ~1/8" in the radiant, light residual confined to radiant tubes 29–31 in select coils. **Open: job report not yet built, and actuals have not landed on the heater card** — see [[2026-09-02-cad26001-job-report-handoff]]. |
+| CAD26001 | Syncrude Mildred Lake, Fort McMurray AB | [[7-1-F-1]] | 2026-08-30 | Third campaign on this heater (after CAD24002 Apr 2024, CAD25004 Sep 2025). PO 1300060001. Mob 2026-08-25, rig-in 2026-08-26, **demob 2026-08-30** (settled 2026-09-02 from the ticket breakdown's DAY (6) shift and ticket 11308 — last shift carrying charges; the 8/31 demob ticket is travel home, which is not the demob date). Trimax 5 + 6 with Support 5/6, both in double mode, 0 rig-overs. **8 coils looped into 4 circuits, temporary 180s at the convection inlet flanges** (1&8 · 2&7 · 3&6 · 4&5), so every launcher/receiver landed at the radiant outlet end and the 180s took the inlets (location corrected 2026-09-02; recorded inverted from 2026-08-21) — the arrangement is in [[CAD26001-job-sheet]] and the duration build-up in [[2026-08-21-cad26001-looping-duration-both-ways]]. Crew of 10, Jesse on nights as operator; roster in the job sheet. **Quoted 84 hrs / 7 shifts — the record of what was quoted and executed; do not re-derive a duration from it.** Flow tests transcribed to [[CAD26001-flow-tests]] (three circuits measured, passes 3+4 scrapped and pending the official sheet). All 8 coils came out nominal, thickest deposits ~1/8" in the radiant, light residual confined to radiant tubes 29–31 in select coils. **Closed 2026-09-02:** job report built and delivered to the OneDrive job folder (`CAD26001 Syncrude 7-1F-1 Job Report.docx`), and actuals landed on [[7-1-F-1]] — Task Durations row, the new `## Coilset Durations` section (DQ-017 Phase 2), Field Notes and Pig Specifications. |
 | USA26041 | ExxonMobil Baytown, TX | F-501 (HU5A) | 2026-08-14 | August HU5A TA, first USADebusk decoke of this heater. Mob 08-08, rig-in 08-12, Steady Flux smart pig 08-13, finished 08-14. 1 Trimax triple mode, filtration, all 3 circuits concurrent. Jesse ran the job. Inspection report `26-0663-002 Rev. A` received 08-15 — coil reported generally clean, one convection segment (B_8_C, 43.9% loss) flagged for ExxonMobil. Heater card geometry corrected from the report; actuals filed from receipts 10780–10786 (43 productive hrs vs 48 quoted, + 11 hrs PDT). Metal restriction found in the Pass A/B cross-overs — Circuit 1 capped at a 4.75" final pig. **Commercially closed:** ticket breakdown $67,187.65, change orders signed and approved; filtration stand-by was changed from the quoted $35/hr to **$150/hr** by approved change order, and the vault's stale $35 is corrected on [[DSP26071]] and the facility rate table. Reconciliation record on [[USA26041-job-sheet]]. Customer job report built and filed 2026-08-16 → [[USA26041-job-report]]. |
 | USA26038 | HF Sinclair Navajo, Artesia NM | H-19, H-20 | 2026-07-17 | Emergency decoke, 2 Trimax units, PM Dacorey Slater. Crash condition. Job report + actuals filed → [[USA26038-job-report]]; actuals on [[H19]]/[[H20]]. |
 | USA26025 | Valero Port Arthur | H-102A, H-102B | Complete | Reference only. Dual-rig dual-shift vacuum heaters (corrected from "coker" 2026-07-22). |

diff --git a/00-inbox/cad26001-coilset-capture-sheet.md b/00-inbox/cad26001-coilset-capture-sheet.md
@@ -18,7 +18,7 @@ Carry this on shift. It feeds `## Coilset Durations` on [[7-1-F-1]] at ingest (D
 
 ## What the job is expected to be
 
-Third campaign on 7-1 F-1. **8 coils looped into 4 circuits at the radiant outlet flanges.** Both Trimax in **double mode** — each rig runs 2 looped circuits simultaneously, all 4 circuits at once, so **0 rig-overs**. Every coil is uniform at 2,237 ft, so **every looped circuit is 4,474 ft whatever the pairing.**
+Third campaign on 7-1 F-1. **8 coils looped into 4 circuits, temporary 180s at the convection inlet flanges** (location corrected 2026-09-02). Both Trimax in **double mode** — each rig runs 2 looped circuits simultaneously, all 4 circuits at once, so **0 rig-overs**. Every coil is uniform at 2,237 ft, so **every looped circuit is 4,474 ft whatever the pairing.**
 
 Quoted duration 84 hrs / 7 shifts (rig-in 8 · pig 47 · smart pig 18 · rig-out 8 = 81 raw). Basis is CAD25004's looped 1&8 at 124 ft/hr plus a 25% parallel allowance. **The allowance is the untested part** — 124 was earned with one Trimax on one circuit; this job asks each rig for two at once. What actually happens is the thing worth measuring.
 

diff --git a/00-inbox/2026-08-21-cad26001-looping-duration-both-ways.md b/00-inbox/2026-08-21-cad26001-looping-duration-both-ways.md
@@ -28,7 +28,7 @@ Reference working note, not a quote. Rates and elections are per-job inputs.
 |---|---|---|
 | Coils | 8, uniform — 2,237 ft each (1,040 conv + 1,197 rad), 47 tubes | [[7-1-F-1]] Config Rollup, drawing-verified 2026-08-20 |
 | Bore | Single 6.065" ID throughout, no telescoping | Quest title block + coil revamp BOM |
-| Looping | **8 → 4 circuits at the radiant outlet flanges** | Jesse, 2026-08-21 |
+| Looping | **8 → 4 circuits, temporary 180s at the convection inlet flanges** | Jesse, 2026-08-21 (location corrected 2026-09-02 — recorded as the radiant outlets until then; duration-neutral either way, the circuit is 4,474 ft) |
 | Circuit length | **4,474 ft** (2 × 2,237) | Derived |
 | Pairing | Undecided — **and duration-neutral**, coils are uniform | Jesse, 2026-08-21 |
 | Equipment | 2× Trimax (5 + 6), Support 5 + 6. **No filtration — not used on this heater, settled** | [[active-jobs]]; Jesse, 2026-08-21 |
